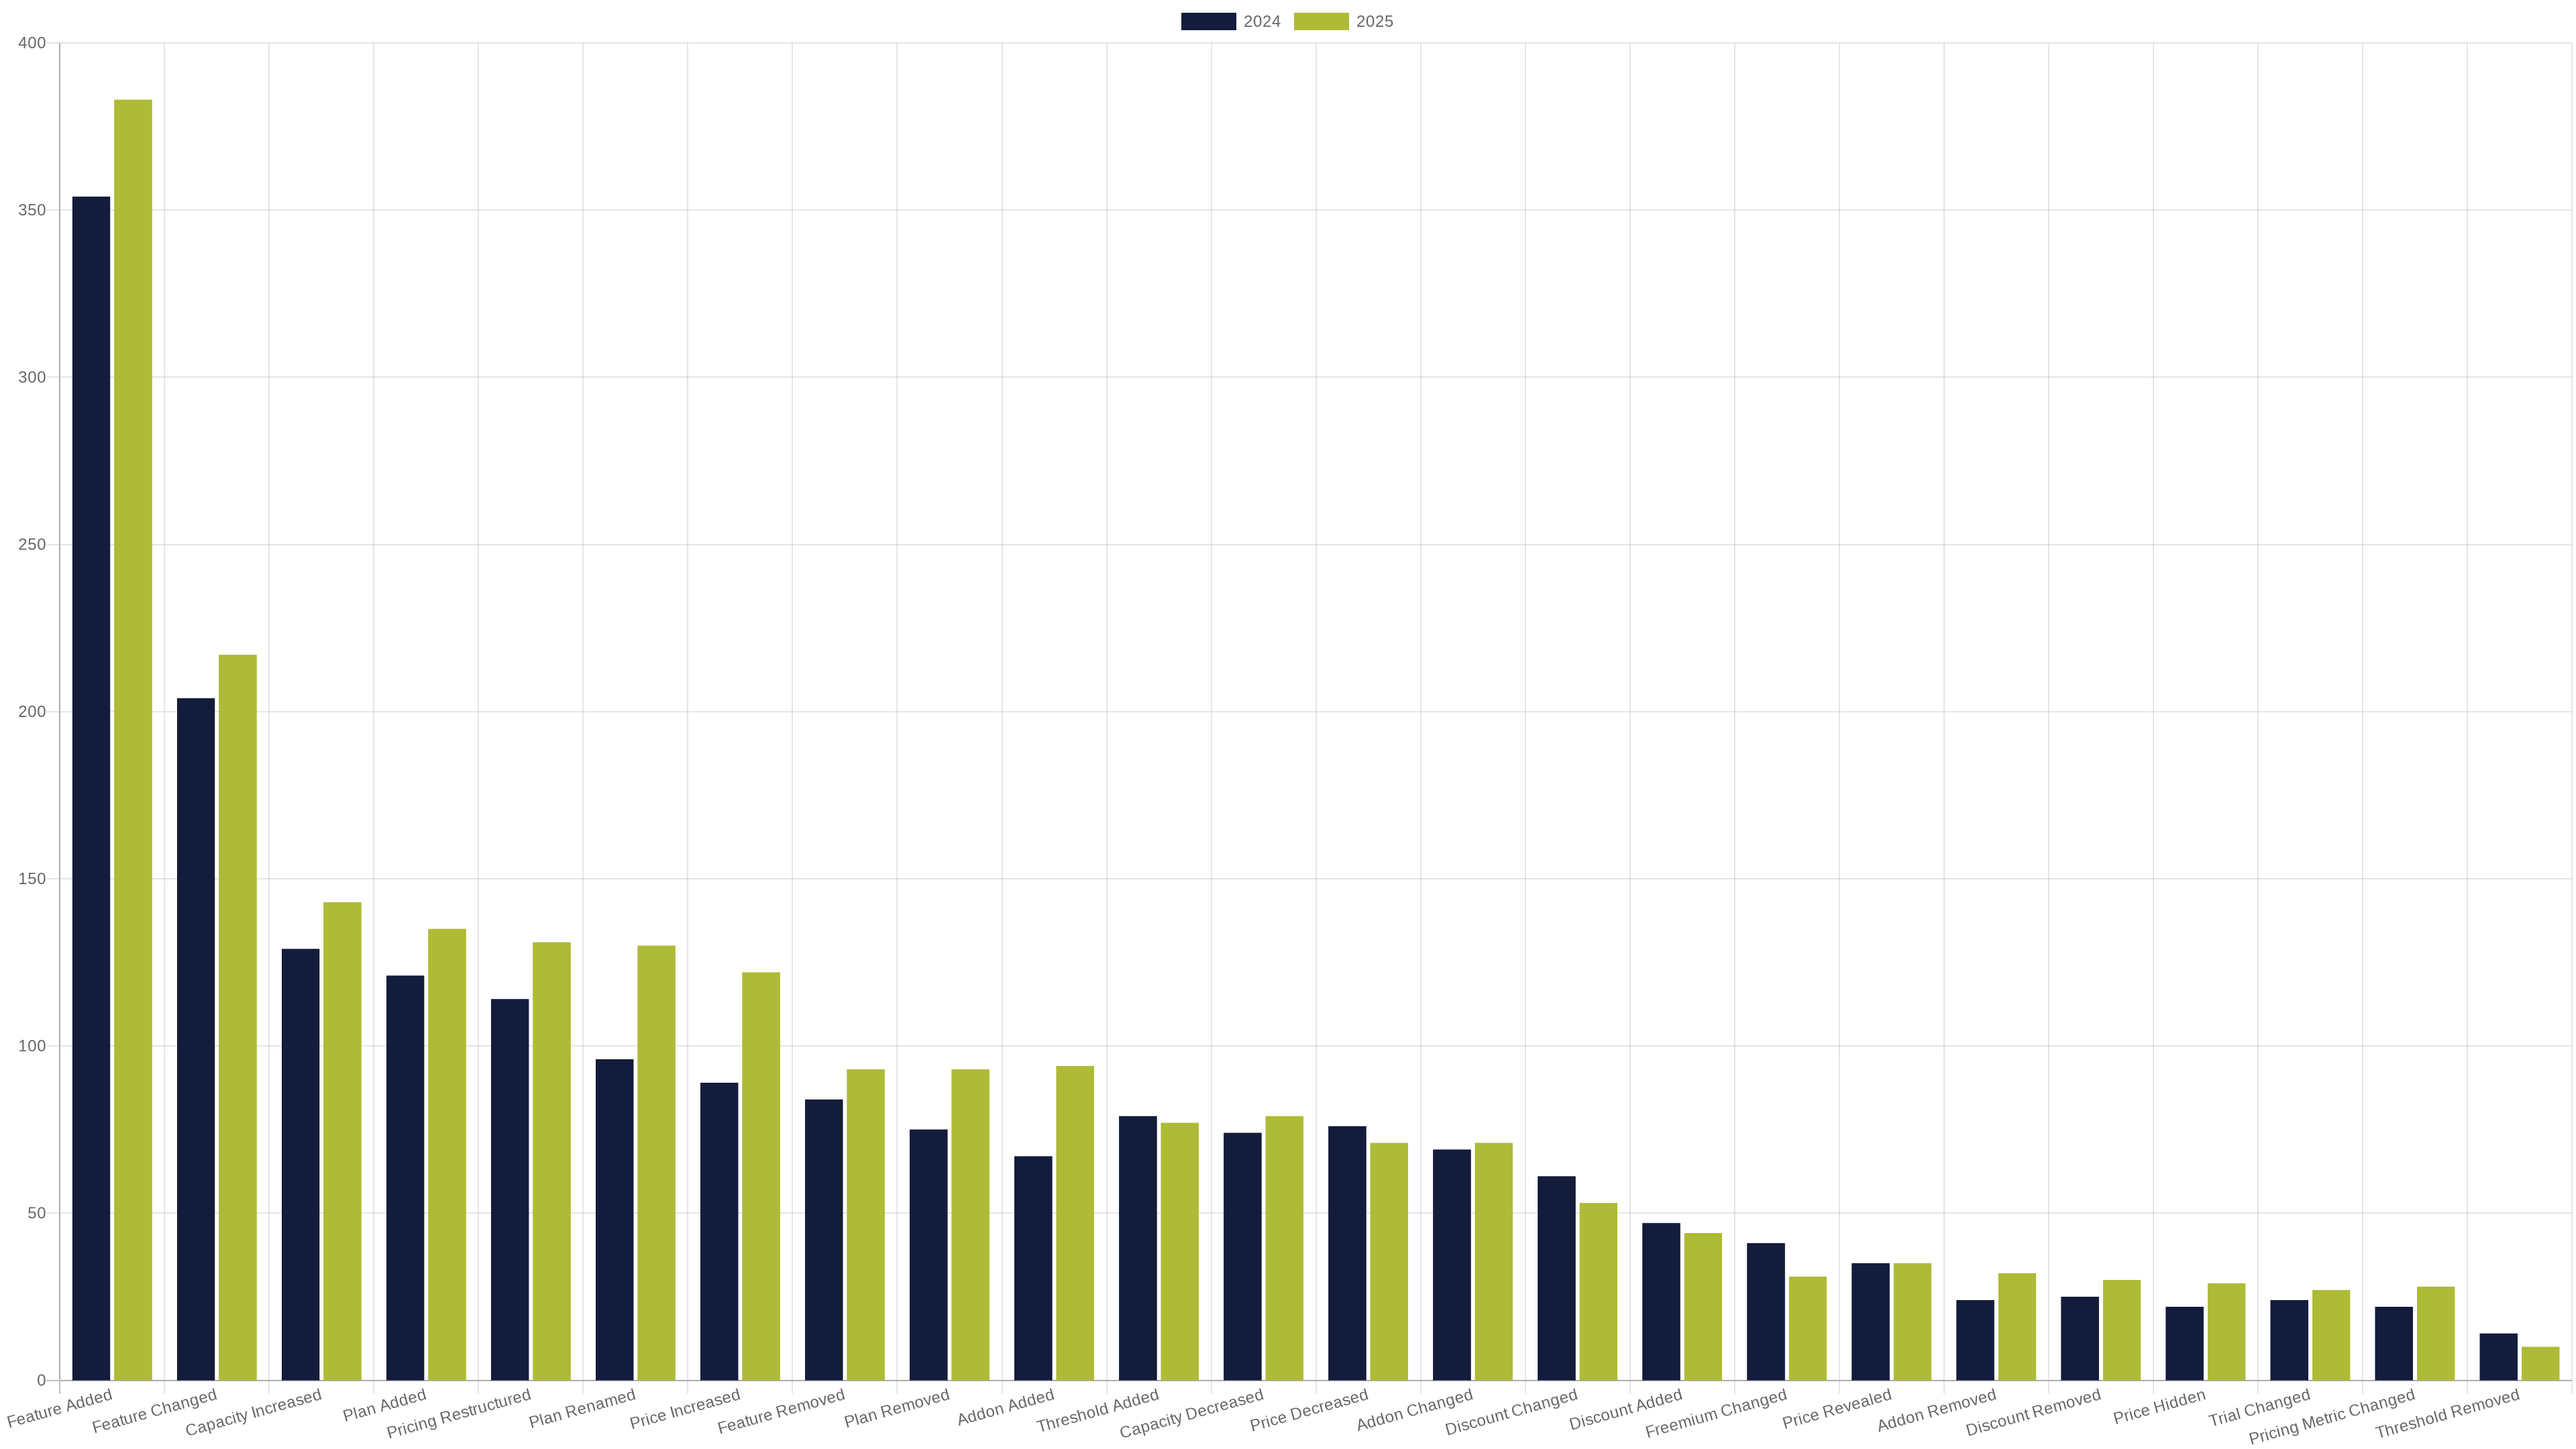
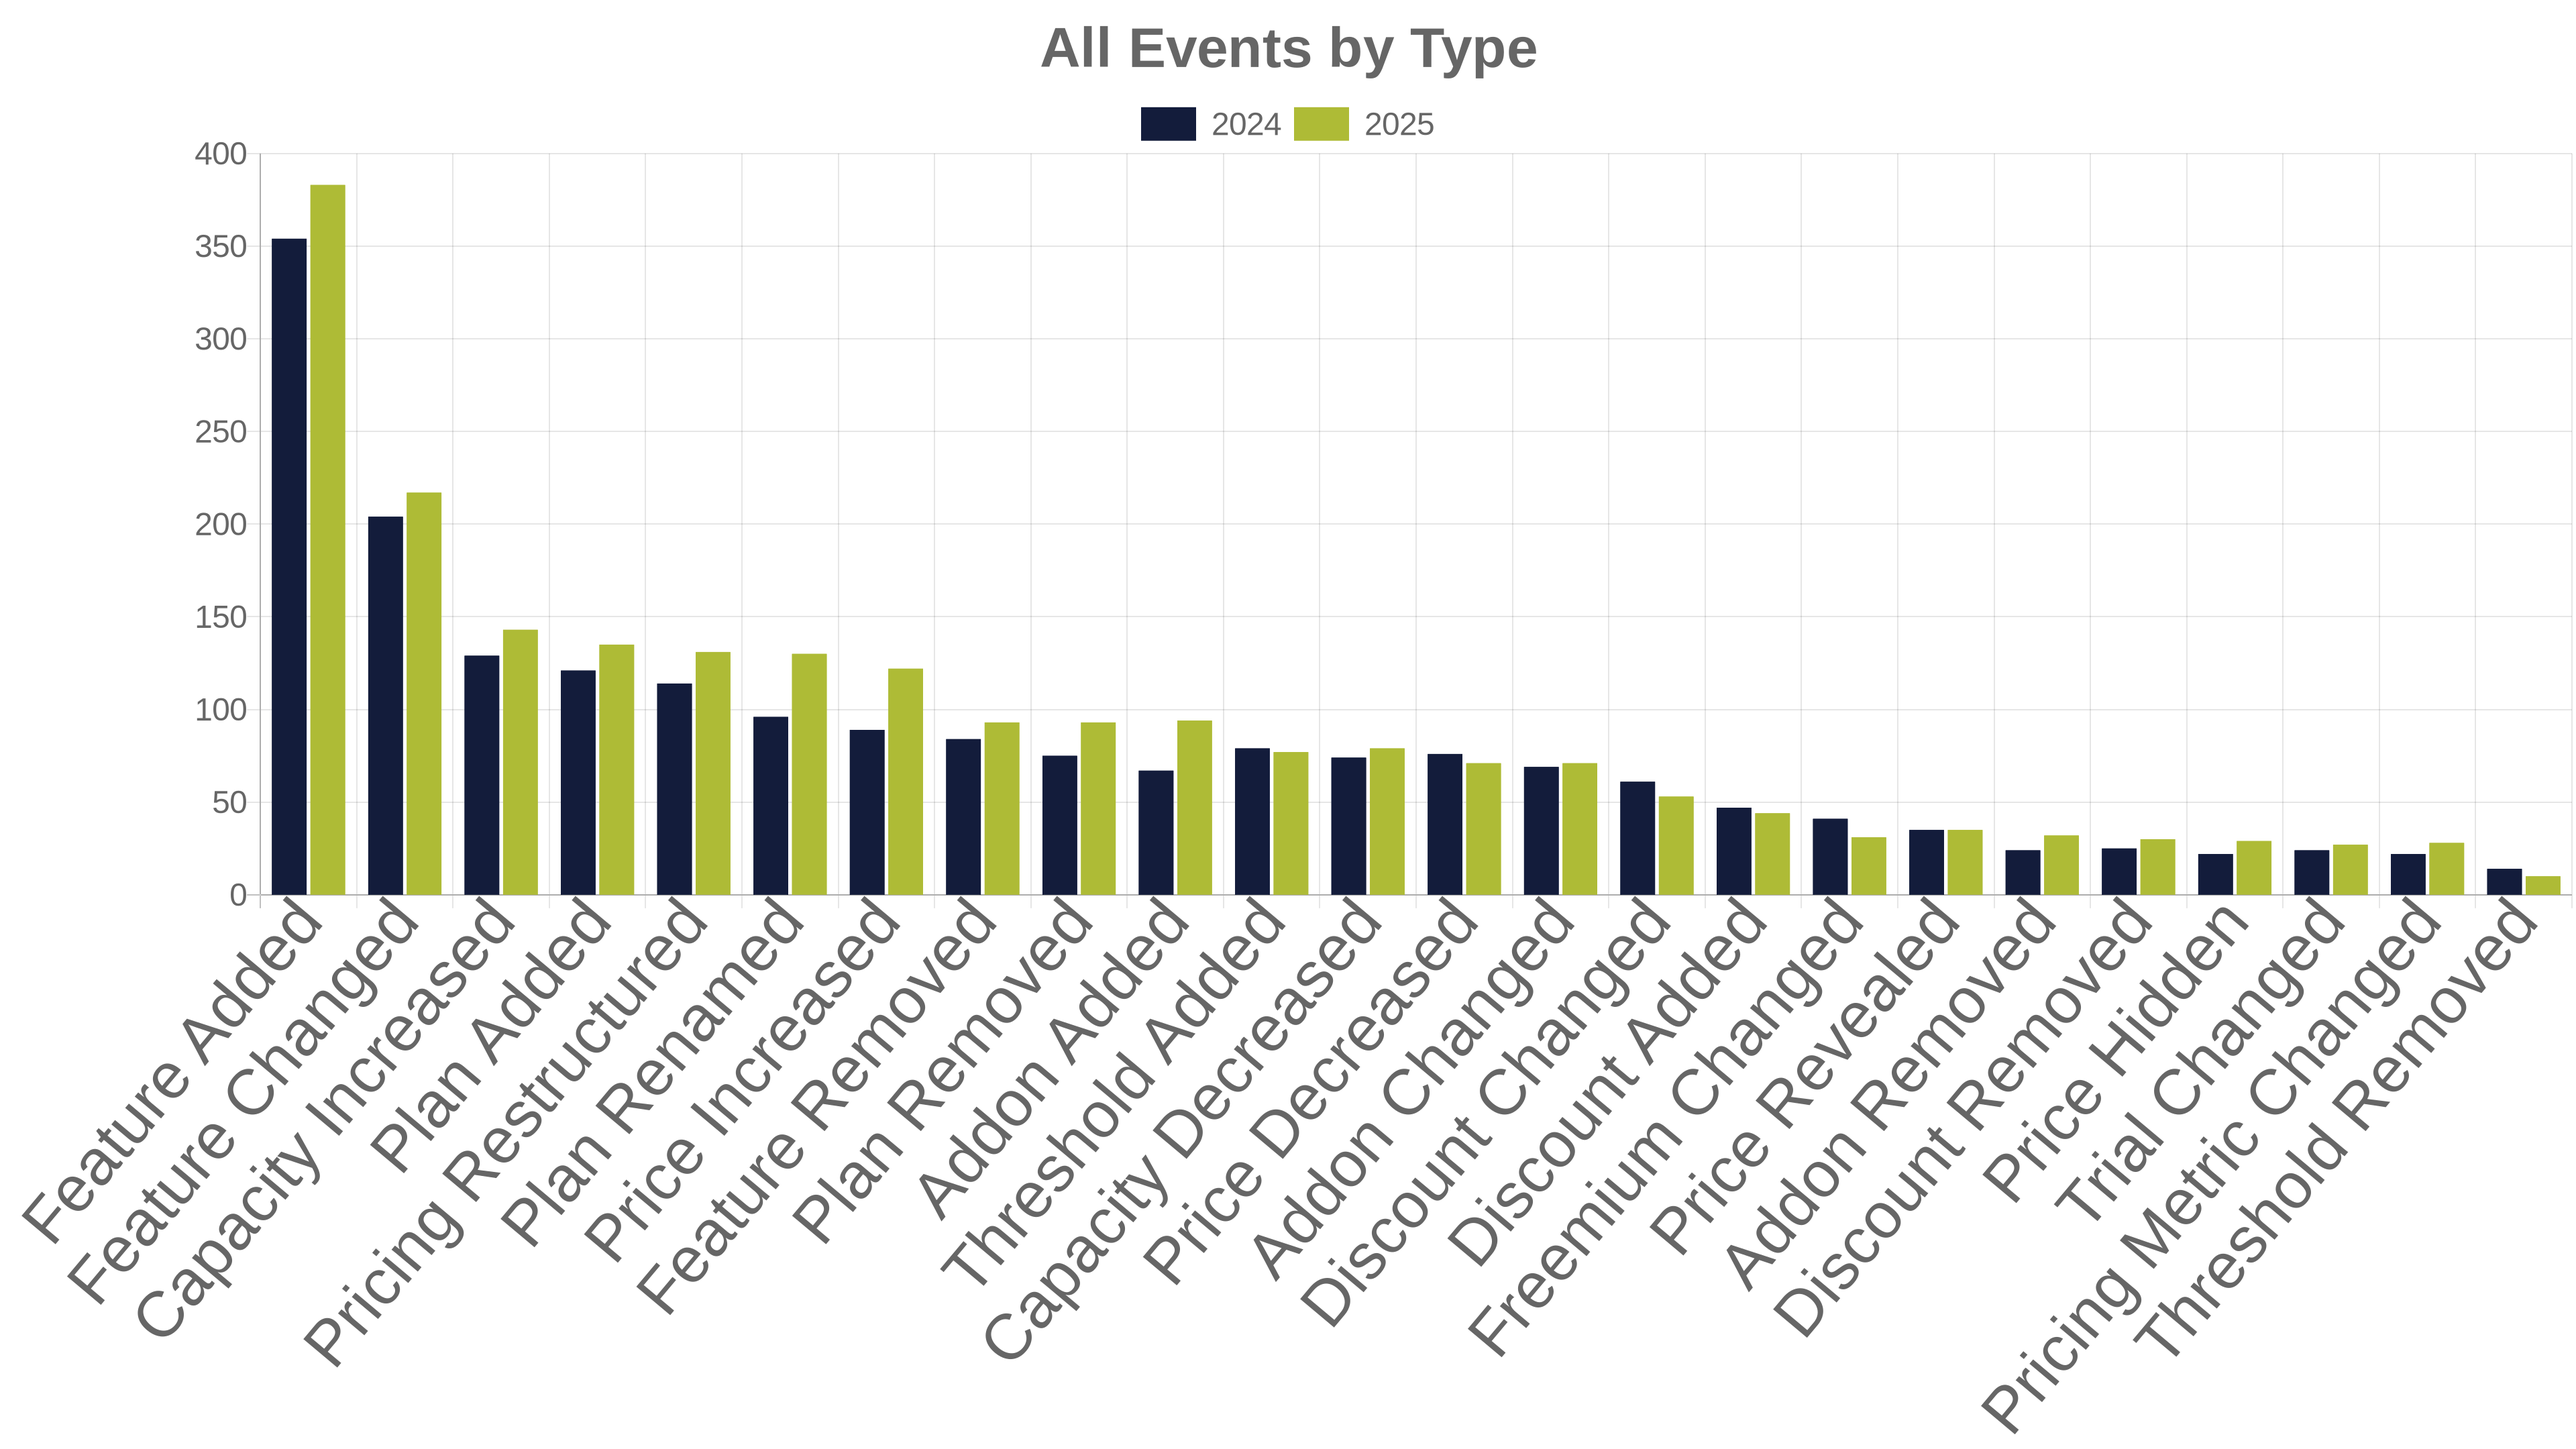
Fix font sizes by using Chart.js v2 syntax for QuickChart
QuickChart defaults to Chart.js v2, not v3. Updated configuration to use
v2 syntax for proper font size rendering:

- Changed scales.x/y to scales.xAxes[0]/yAxes[0]
- Changed font.size to fontSize
- Changed font.family to fontFamily
- Changed plugins.legend/title to legend/title
- X-axis tick labels now properly render at 48pt

Changed region(s): [[0.0, 0.062, 1.0, 0.9926], [0.4062, 0.0, 0.5938, 0.1241]]

diff --git a/supabase/functions/generate-chart/index.ts b/supabase/functions/generate-chart/index.ts
@@ -272,7 +272,7 @@ serve(async (req: Request) => {
     const width = finalChartConfig.width || 1920;
     const height = finalChartConfig.height || 1080;
 
-    // Build Chart.js configuration
+    // Build Chart.js v2 configuration (QuickChart defaults to v2)
     const chartJsConfig = {
       type: finalChartConfig.type,
       data: {
@@ -280,51 +280,35 @@ serve(async (req: Request) => {
         datasets: finalChartConfig.datasets
       },
       options: {
-        plugins: {
-          legend: {
-            display: finalChartConfig.datasets.length > 1,
-            position: 'top' as const,
-            labels: {
-              font: {
-                size: 24,
-                family: 'Arial, sans-serif'
-              }
-            }
-          },
-          title: {
-            display: !!finalChartConfig.title,
-            text: finalChartConfig.title || '',
-            font: {
-              size: 42,
-              family: 'Arial, sans-serif',
-              weight: 'bold' as const
-            }
-          },
-          subtitle: finalChartConfig.subtitle ? {
-            display: true,
-            text: finalChartConfig.subtitle,
-            font: {
-              size: 32,
-              family: 'Arial, sans-serif'
-            }
-          } : undefined
+        legend: {
+          display: finalChartConfig.datasets.length > 1,
+          position: 'top' as const,
+          labels: {
+            fontSize: 24,
+            fontFamily: 'Arial, sans-serif'
+          }
+        },
+        title: {
+          display: !!finalChartConfig.title,
+          text: finalChartConfig.title || '',
+          fontSize: 42,
+          fontFamily: 'Arial, sans-serif',
+          fontStyle: 'bold'
         },
         scales: {
-          y: {
-            beginAtZero: true,
+          yAxes: [{
             ticks: {
-              font: {
-                size: 24
-              }
+              beginAtZero: true,
+              fontSize: 24,
+              fontFamily: 'Arial, sans-serif'
             }
-          },
-          x: {
+          }],
+          xAxes: [{
             ticks: {
-              font: {
-                size: 48
-              }
+              fontSize: 48,
+              fontFamily: 'Arial, sans-serif'
             }
-          }
+          }]
         },
         responsive: false,
         maintainAspectRatio: false
